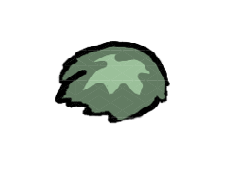
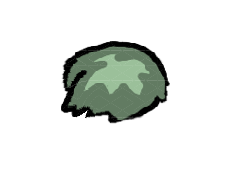
Fitter: rear pinned outline; mashtzarr hood rears keep their point
Each item's pin record gains rearPoints for its rear-view art. In Pin
outline mode with the Back view selected, the rear art is shown mirrored
(as the game draws it from behind) and painted the same way; "Copy front
pins to rear" snaps front pins onto the rear outline. Rear warps apply
their own pins (no hood-hole deform: the back has no opening).

Re-exported the mashtzarr fur and fur-lined hood rear images with each
shell's front point pinned (the mirrored side when seen from behind); the
front art is unchanged.

Claude-Session: https://claude.ai/code/session_01XRZE2sVSA4jEZ2bpX92Ess

Changed region(s): [[0.2094, 0.3468, 0.4188, 0.6936], [0.359, 0.4913, 0.3889, 0.5202]]

diff --git a/scripts/test-clothing-fit-editor-layers.js b/scripts/test-clothing-fit-editor-layers.js
@@ -310,6 +310,8 @@ async function main() {
   assert(core.includes("if(String(role||'')!=='trim')return 0;"), 'Only trim layers follow the hood opening');
   assert(core.includes('{view:layer.view,hole:fitState.hole,pins:fitState.pins,role:layer.role}'), 'Exported layers deform by their own role and carry the pinned outline');
   assert(core.includes('return applySilhouettePins(holed,grid,width,height,options.pins!==undefined?options.pins:currentPinRecord(),hole);'), 'Pinned outline applies after the hood-hole deform');
+  assert(core.includes('return applySilhouettePins(splined,grid,width,height,pins?.rearPoints?.length?{points:pins.rearPoints,sigma:pins.sigma}:null,null);'), 'Rear-view art applies its own pinned outline (no hood-hole deform)');
+  assert(core.includes('function copyFrontPinsToRear(') && core.includes("C.drawImage(rear?flipCanvasX(art):art,0,0)"), 'Rear pins are painted on mirrored rear art and can be snapped from the front pins');
   for (const store of ['silhouettePins:A.silhouettePins||{}', 'if(v.silhouettePins)A.silhouettePins=v.silhouettePins', 'silhouettePins:v.silhouettePins||{}', 'A.silhouettePins=v.silhouettePins||{}'])
     assert(core.includes(store), 'Pinned outlines persist through save/export/import/undo: ' + store);
   assert(core.includes('{view:layer.view,role:layer.role}') && core.includes('{role:sprite.role}'), 'Hood hole and runtime previews deform each layer by its role');

diff --git a/docs/tools/clothing-species-fit/index.html b/docs/tools/clothing-species-fit/index.html
@@ -103,6 +103,8 @@
         <div class="field"><label for="pinBrush">Brush radius (sprite px)</label><div class="row"><input id="pinBrush" type="range" min="1" max="12" step="0.5" value="3"><input id="pinBrushNumber" type="number" min="1" max="12" step="0.5" value="3" aria-label="Pin brush radius"></div></div>
         <div class="field"><label for="pinSigma">Falloff radius around pinned pixels (sprite px)</label><div class="row"><input id="pinSigma" type="range" min="2" max="40" step="0.5" value="8"><input id="pinSigmaNumber" type="number" min="2" max="40" step="0.5" value="8" aria-label="Pin falloff radius"></div></div>
         <div class="row"><label class="small"><input id="pinErase" type="checkbox"> erase pins</label><button type="button" id="pinClear">Clear pins</button></div>
+        <div class="row"><button type="button" id="pinCopyRear">Copy front pins to rear</button></div>
+        <div class="small">Switch the headwear view to <b>Back</b> to see and paint the rear art's pins (shown mirrored, as the game shows it from behind).</div>
         <div id="pinStatus" class="small" aria-live="polite"></div>
       </section>
 
